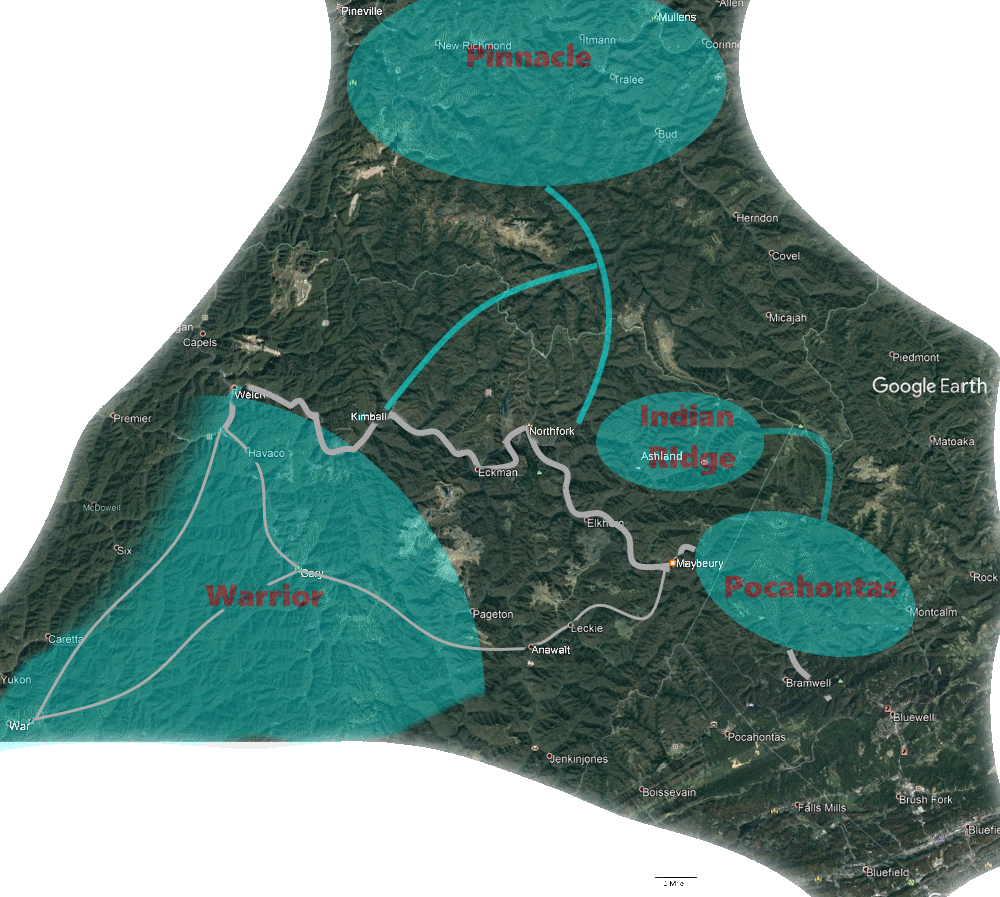
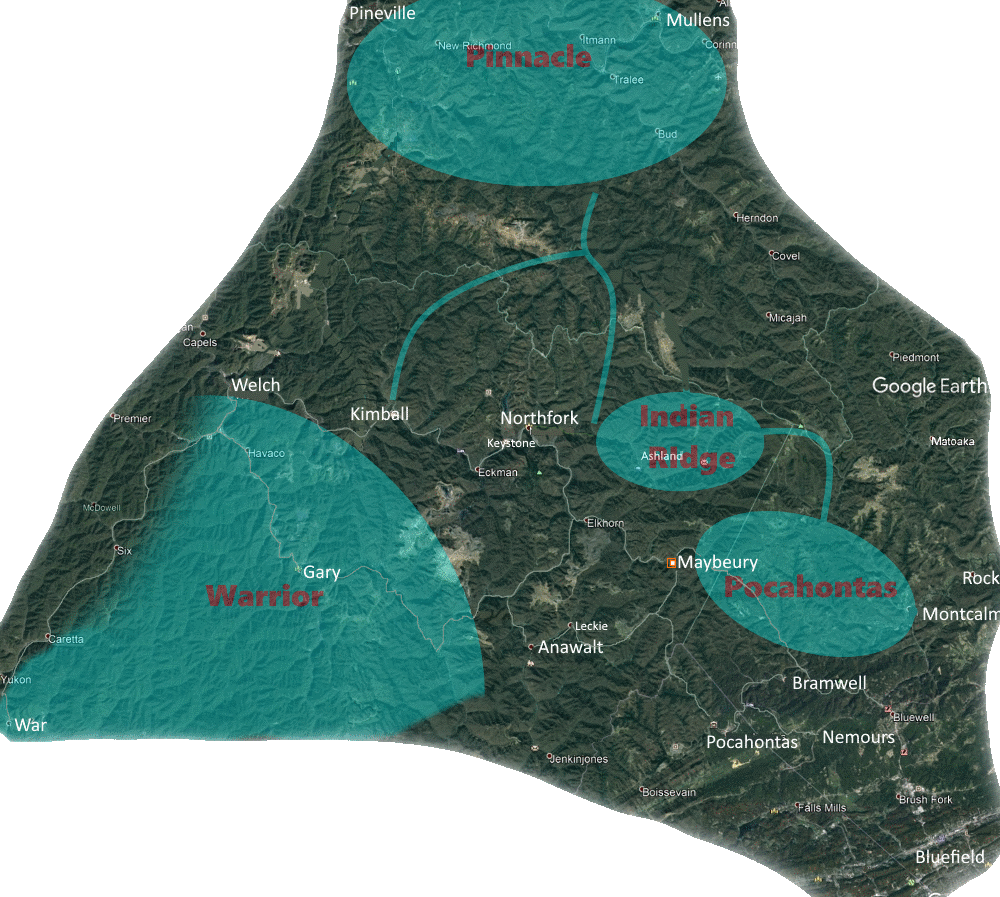
Add files via upload

diff --git a/itrails.htm b/itrails.htm
@@ -43,17 +43,18 @@
 </nav>
 
 <div style="background:orange; padding-left:30px">
-	<h1> We are surrounded by three major trails, Warrior, Pocahontas and Indian Ridge, and a fourt, Pinnacle can be reached through connectors.</h1>
-	<p> Click on the map see the specific maps for each trail.</p>
+	<h1><b> We are surrounded by three major trails, Warrior, Pocahontas and Indian Ridge. A fourth, Pinnacle, can be reached through connectors.</b></h1>
+	<p><b>Click on the highlighted regions of the map to see the official Hatfield McCoy Trails.</b></p>
 	<img src="mimage50.png" width="90%"  alt="GeographicMap" usemap="#googleEarth" style="background:orange; padding-left:30px"/>
 </div>
 
 <map name="googleEarth">
-	<area shape="polygon"   href="itrailsWarrior.htm" coords="0,750,400,750,400,500,350,450,200,350,0,650,0,750" alt="Warrior" >
-	<area shape="rectangle" href="itrailsPinnacle.htm" coords="350,0,720,170" alt="Pinnacle" >
-	<area shape="rectangle" href="itrailsIndianRidge.htm" coords="590,400,760,480" alt="IndianRidge">
-	<area shape="rectangle" href="itrailsPocahontas.htm" coords="690,520,900,650" alt="Pocahontas" >
-	<area shape="polygon"   href="itrailsConnector.htm" coords="375,400,540,190,625,375,525,425, 374,400" >
+	<area shape="polygon"   href="itrailsWarrior.htm" width="1000" height="897" 
+	               coords="0,830, 550,830,  500,450,  330,450,  200,400,  240,300,  0,770,  0,830" alt="Warrior" >
+	<area shape="rectangle" href="itrailsPinnacle.htm" coords="380,0,800,200" alt="Pinnacle" >
+	<area shape="rectangle" href="itrailsIndianRidge.htm" coords="660,430,830,540" alt="IndianRidge">
+	<area shape="rectangle" href="itrailsPocahontas.htm" coords="750,570,970,730" alt="Pocahontas" >
+	<area shape="rectangle" href="itrailsConnector.htm" coords="410,250,680,450" alt="Connector">
 </map>
 
 
